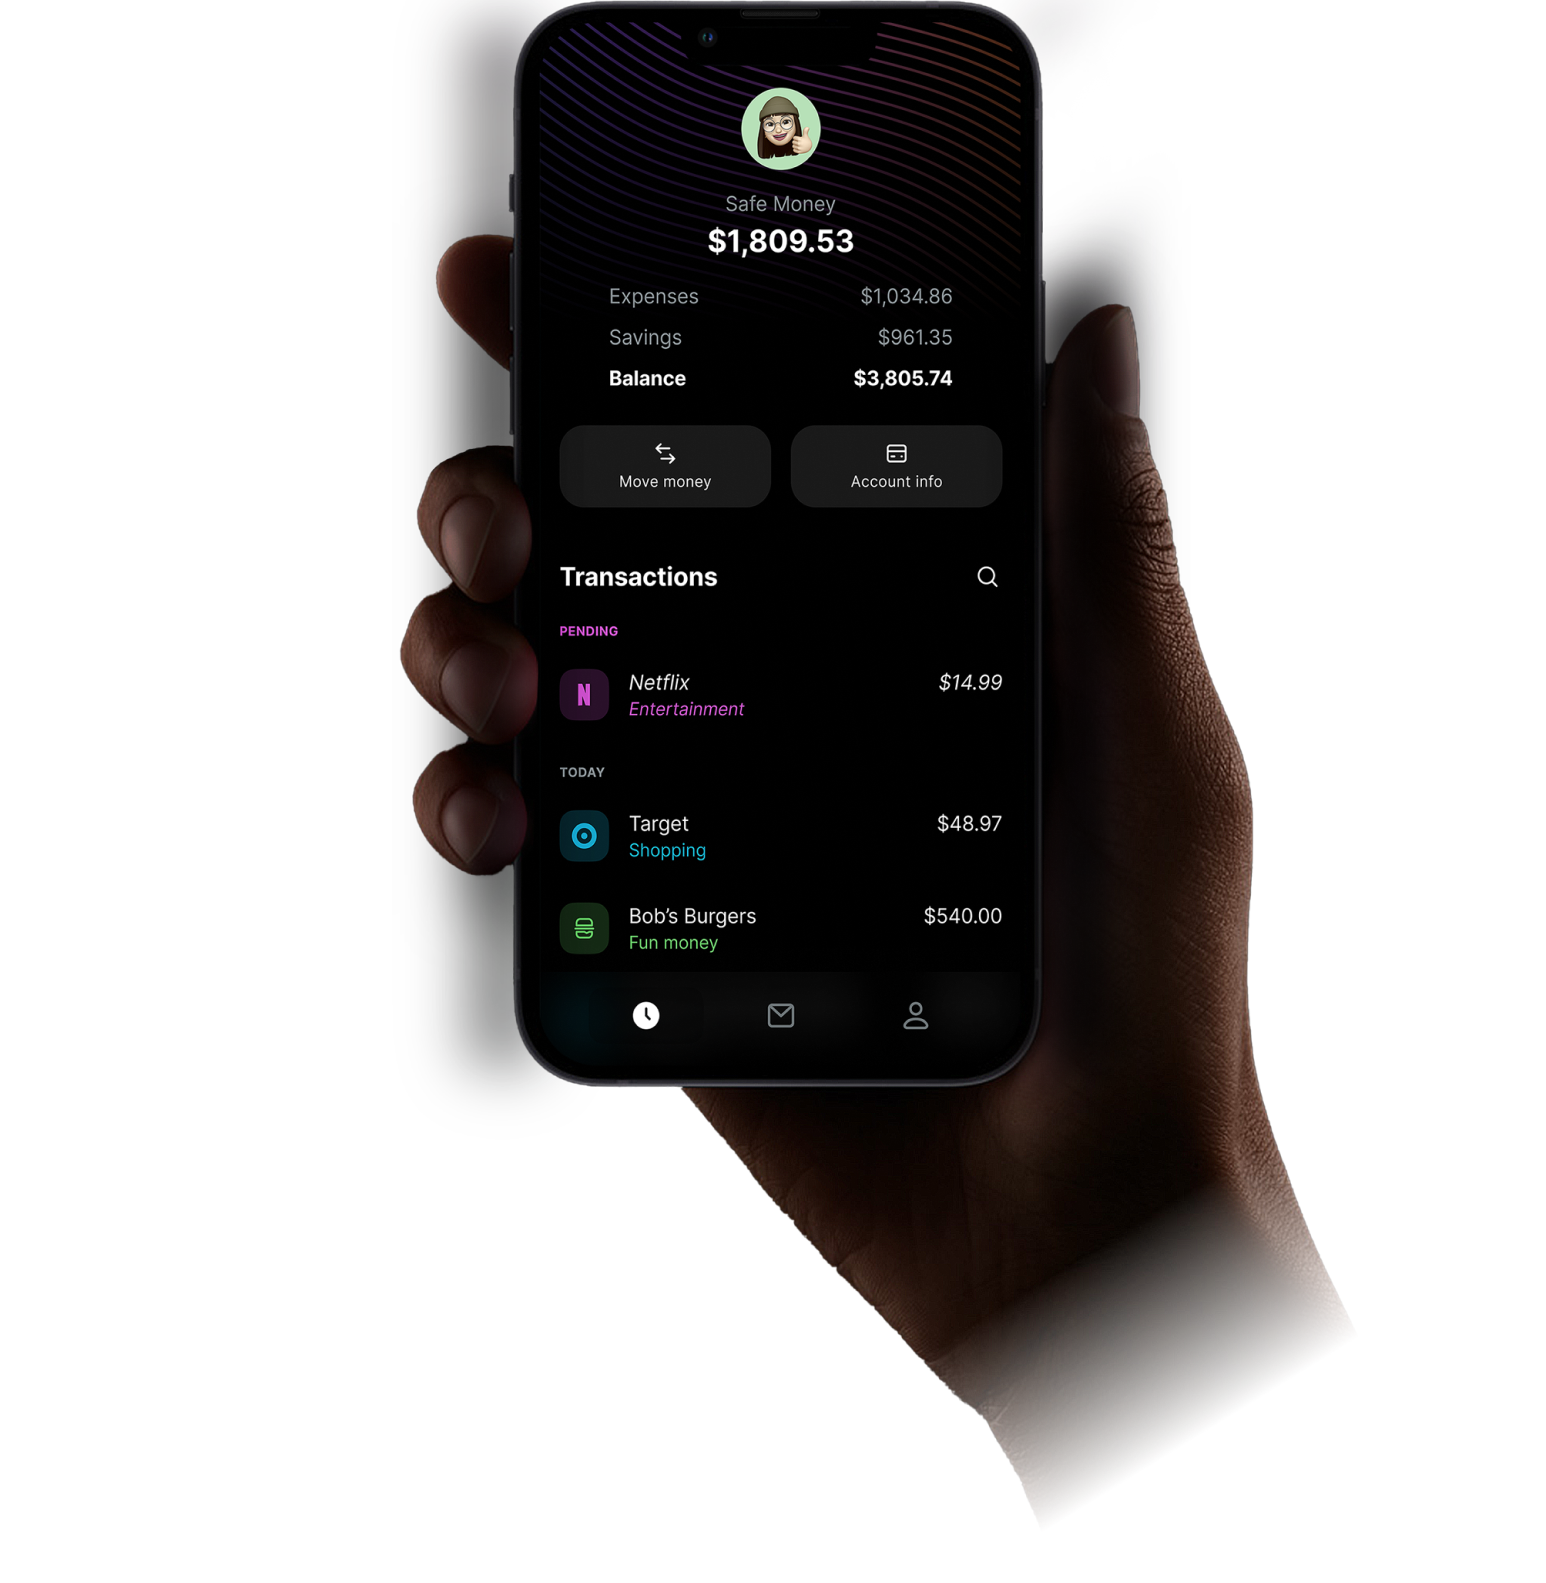
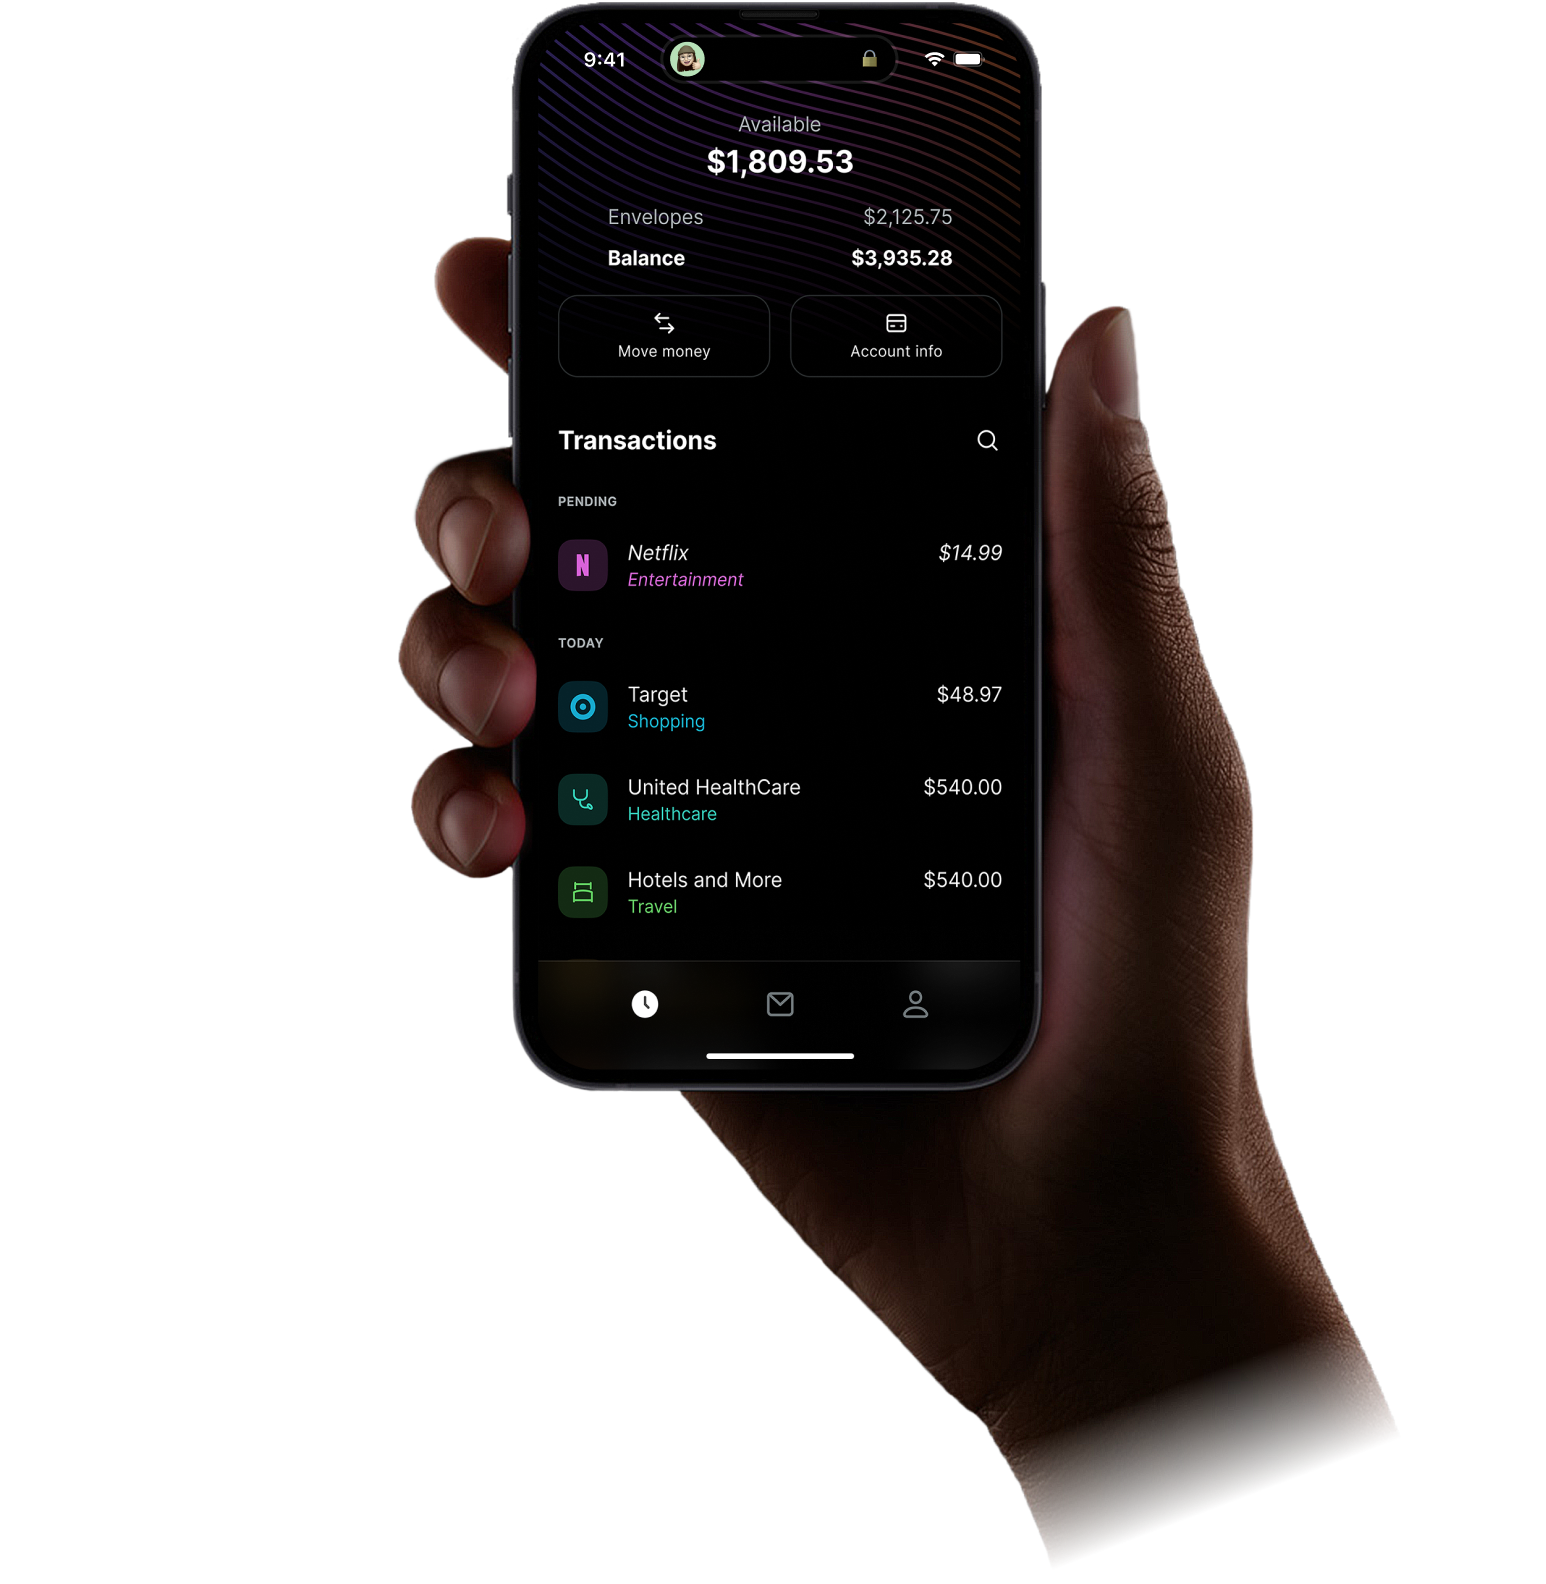
Updated images

diff --git a/index.html b/index.html
@@ -105,9 +105,9 @@
         <div class="tile gray double-width double-height-during-2-col slide-up-close delay100">
 
           <div class="container-tile-double-width-text">
-            <h3 class="tile-title">Safe to Spend</h3>
+            <h3 class="tile-title">Available</h3>
             <p class="tile-description-double-width top">
-              Money can be moved to envelopes on your schedule, leaving you your available-to-spend amount which we call “Safe to Spend". 
+              Money can be moved to envelopes on your schedule, leaving you your available-to-spend amount which we call “Available“. 
             </p>
 
             <p class="tile-description-double-width">
@@ -115,7 +115,7 @@
             </p>
           </div>
 
-          <img id="image-safe-money" src="images/safe-money.png">
+          <img id="image-available" src="images/available.png">
         </div>
 
 
@@ -143,7 +143,7 @@
             </p>
 
             <p class="tile-description-double-width">
-              And at any time, you can move money instantly between envelopes, including back into Safe Money.
+              And at any time, you can move money instantly between envelopes, including back into Available.
             </p>
             </p>
           </div>

diff --git a/css/styles.css b/css/styles.css
@@ -389,7 +389,7 @@ body.loaded .fadein {
 	/*margin: 32px;*/
 }
 
-#image-safe-money {
+#image-available {
     width: 358px;
     /*margin: 24px 27px;*/
 }
